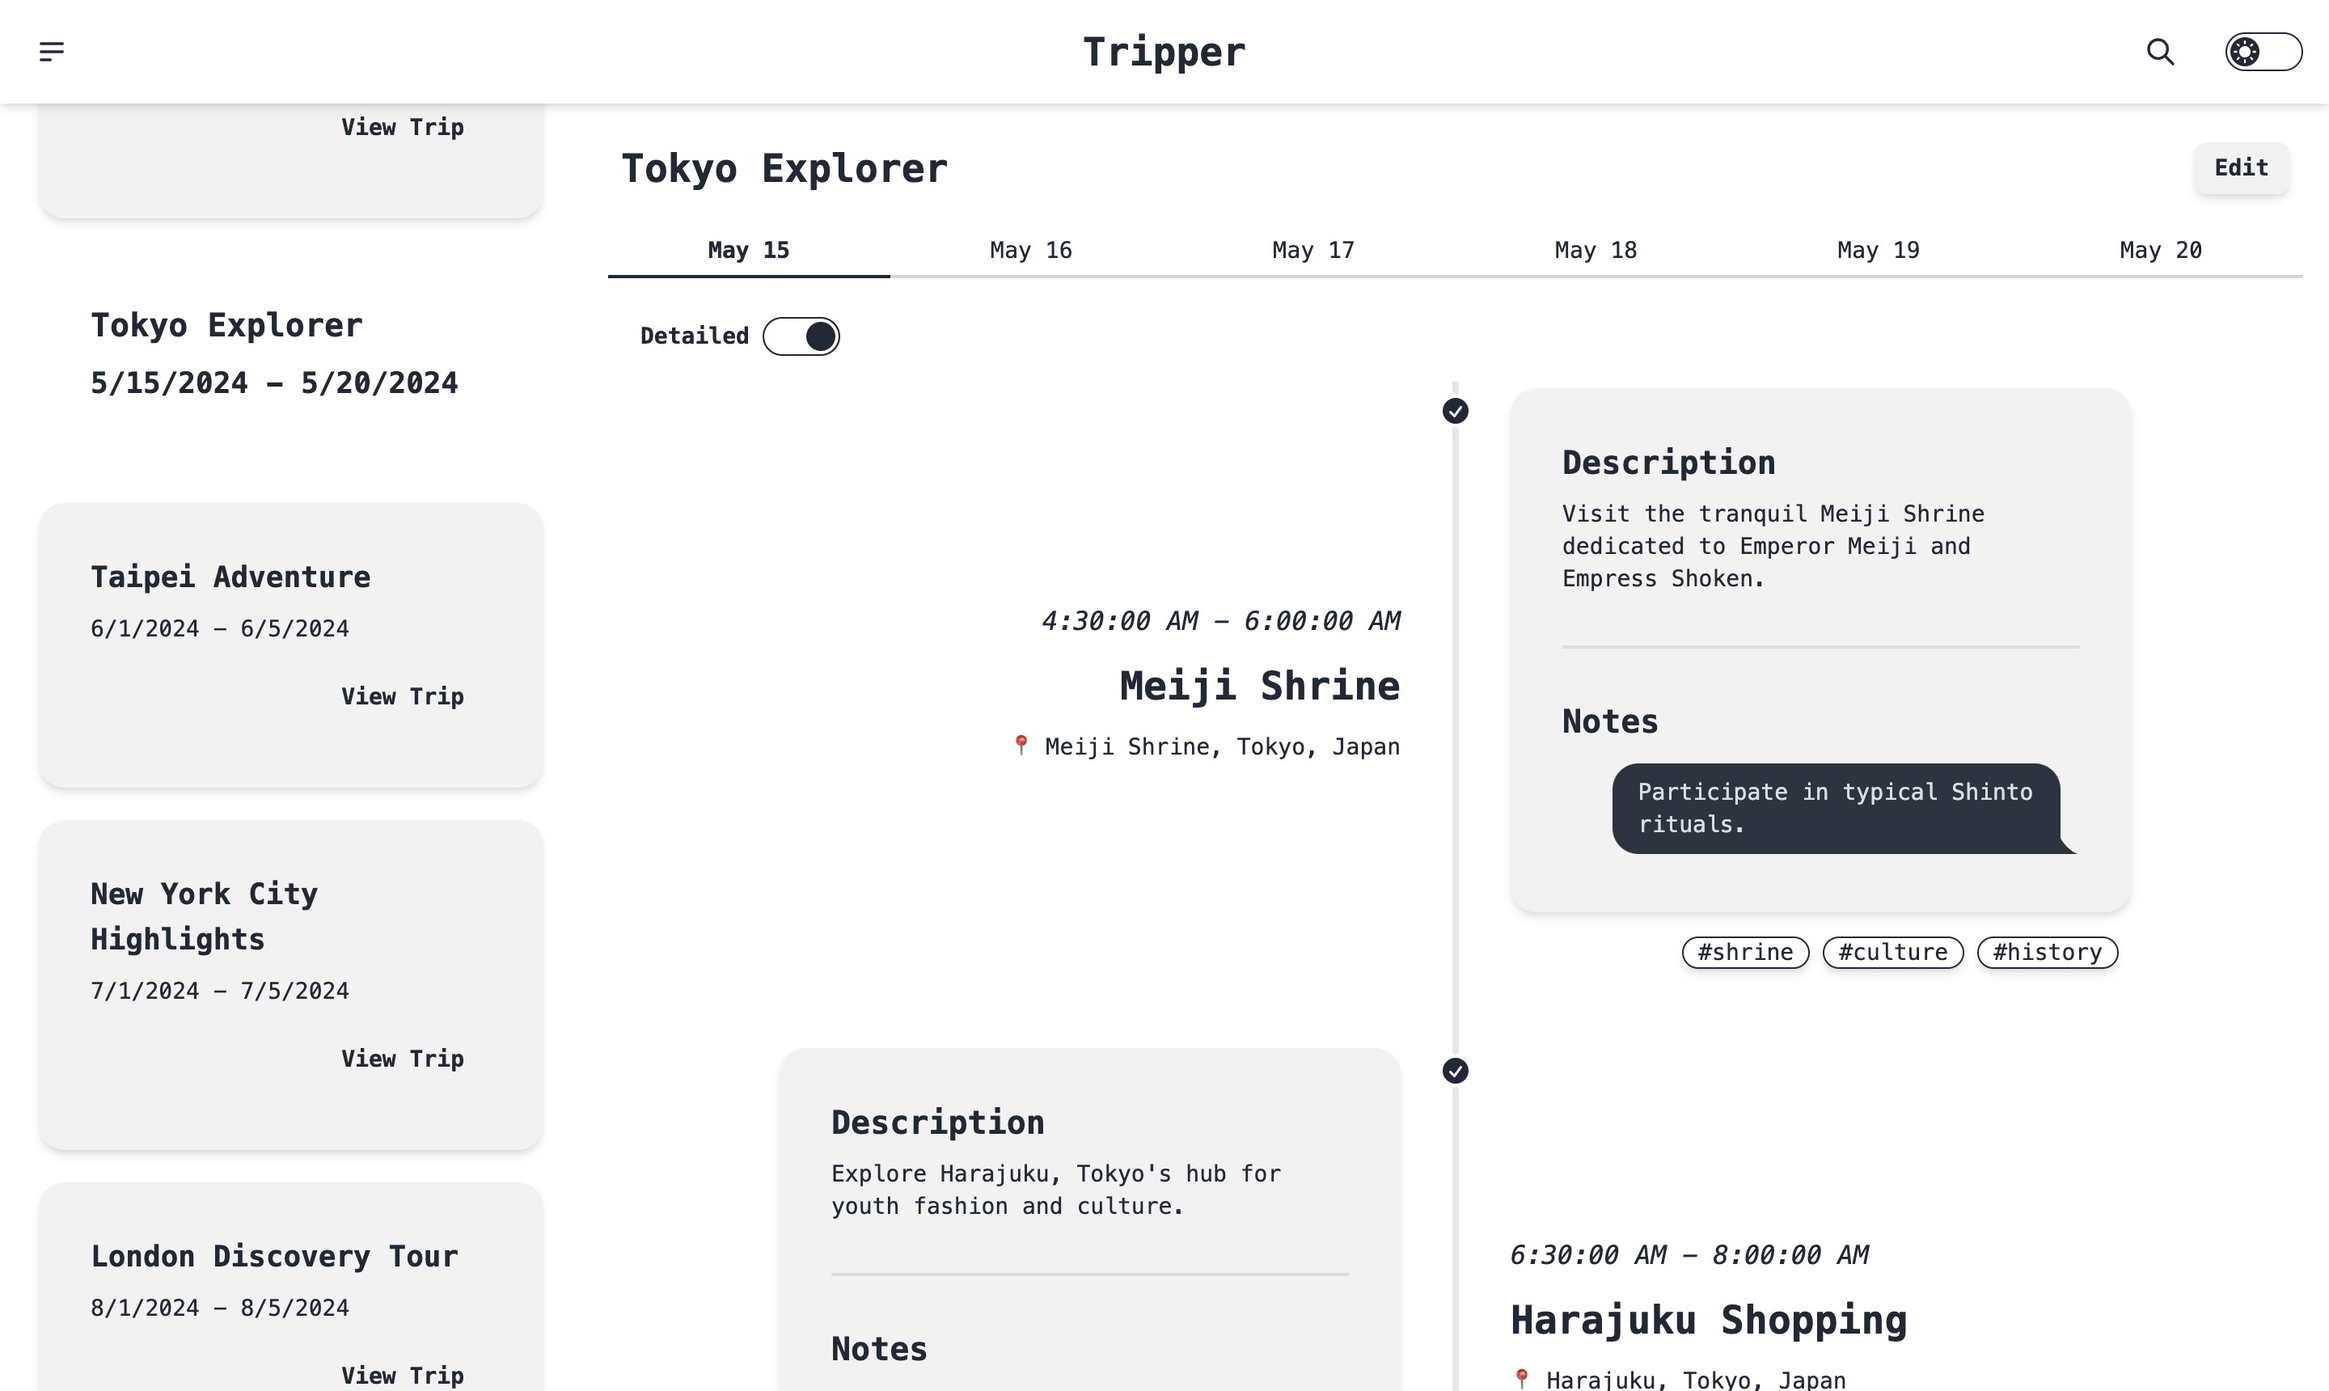
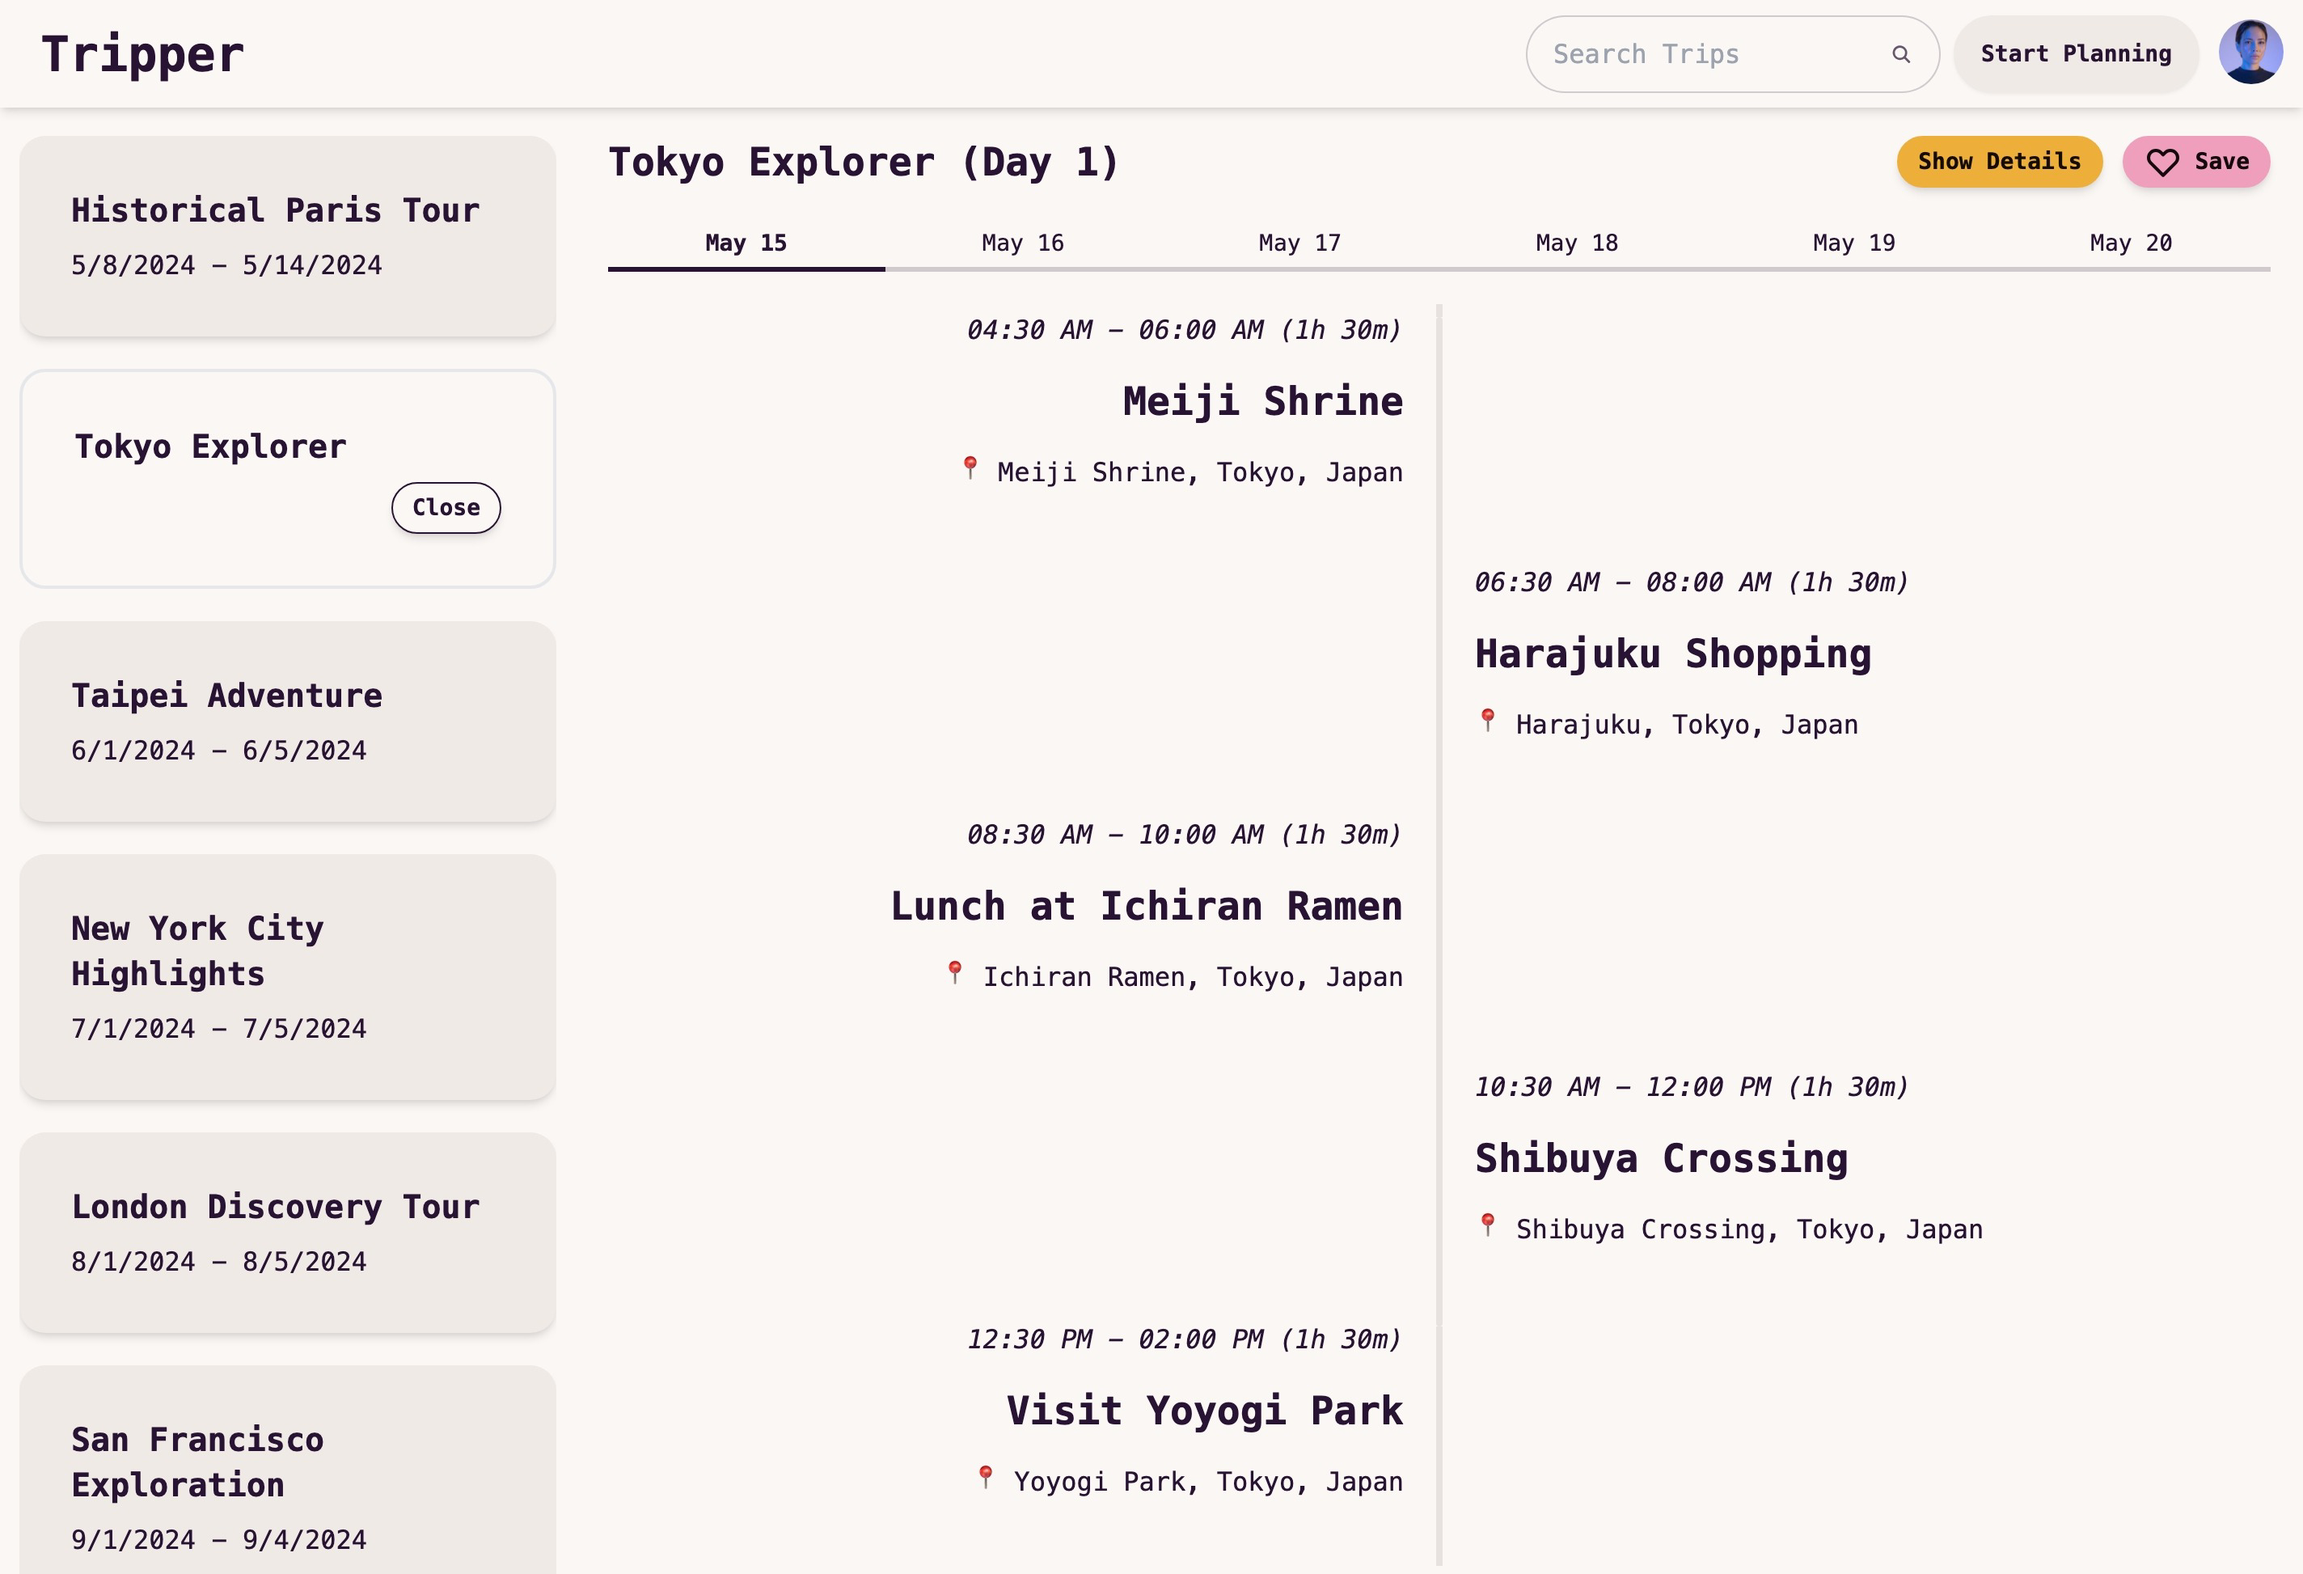
update trips ui

diff --git a/tripper-frontend/src/app/trips/layout.tsx b/tripper-frontend/src/app/trips/layout.tsx
@@ -32,50 +32,50 @@ export default function Layout({ children }: { children: React.ReactNode }) {
       : router.push(`/trips`);
   }, [selectedTrip, router]);
 
-  const filteredTrips = trips.filter((trip) => trip.id !== selectedTrip?.id);
+  // const filteredTrips = trips.filter((trip) => trip.id !== selectedTrip?.id);
 
   return (
-    <div className="flex h-full font-mono">
+    <div className="flex h-full pt-16 font-mono">
       {/* left */}
       <div
         className={`${
           selectedTrip ? "w-1/4" : "w-4/5 mx-auto"
         } flex flex-col px-3`}
       >
-        <div className="flex items-center py-5 space-x-2">
-          {selectedTrip && (
-            <button
-              type="button"
-              className="btn btn-circle shadow-md text-lg font-bold"
-              onClick={() => setSelectedTrip(null)}
-            >
-              {`<`}
-            </button>
-          )}
-
-          <Search placeholder="Search Trips" />
-        </div>
-
-        <div className="flex-grow overflow-y-auto hide-scrollbar pb-5">
+        <div className="flex-grow overflow-y-auto hide-scrollbar py-5">
           <div
             className={`grid ${
               selectedTrip ? "grid-cols-1" : "grid-cols-2 md:grid-cols-3"
             } gap-5`}
           >
-            {filteredTrips.map((trip: Trip) => {
+            {trips.map((trip: Trip) => {
               return (
                 <div
                   key={trip.id}
                   className={`card ${
-                    trip.id !== selectedTrip?.id &&
-                    "bg-base-200 shadow-md cursor-pointer hover:bg-base-300"
+                    trip.id !== selectedTrip?.id
+                      ? "bg-base-200 shadow-md cursor-pointer hover:bg-base-300"
+                      : "border-2"
                   }`}
                   onClick={() => setSelectedTrip(trip)}
                 >
                   <div className="card-body">
                     <h2 className="card-title text-md">{trip.title}</h2>
 
-                    {trip.id !== selectedTrip?.id && (
+                    {trip.id === selectedTrip?.id ? (
+                      <div className="card-actions justify-end">
+                        <button
+                          type="button"
+                          className="btn btn-outline btn-sm shadow-md"
+                          onClick={(e) => {
+                            e.stopPropagation(); // This stops the event from bubbling up to the parent elements.
+                            setSelectedTrip(null);
+                          }}
+                        >
+                          Close
+                        </button>
+                      </div>
+                    ) : (
                       <p>
                         {new Date(trip.startDate).toLocaleDateString()} -{" "}
                         {new Date(trip.endDate).toLocaleDateString()}

diff --git a/tripper-frontend/src/app/layout.tsx b/tripper-frontend/src/app/layout.tsx
@@ -20,6 +20,48 @@ export default function RootLayout({
     <html lang="en" data-theme="cupcake">
       <body className={inter.className}>
         {/* nav bar */}
+        <div className="navbar bg-base-100 fixed z-50 shadow-md font-mono">
+          <div className="flex-1">
+            <a className="btn btn-ghost text-3xl font-extrabold" href="/">
+              Tripper
+            </a>
+          </div>
+          <div className="flex-none gap-2">
+            <Search placeholder="Search Trips" />
+
+            <button type="button" className="btn">
+              Start Planning
+            </button>
+
+            <div className="dropdown dropdown-end">
+              <div
+                tabIndex={0}
+                role="button"
+                className="btn btn-ghost btn-circle avatar"
+              >
+                <div className="w-10 rounded-full">
+                  <img
+                    alt="Tailwind CSS Navbar component"
+                    src="https://img.daisyui.com/images/stock/photo-1534528741775-53994a69daeb.jpg"
+                  />
+                </div>
+              </div>
+              <ul
+                tabIndex={0}
+                className="mt-3 z-[1] p-2 shadow menu menu-sm dropdown-content bg-base-100 rounded-box w-52"
+              >
+                <li>
+                  <a className="justify-between" href="/profile">
+                    Profile
+                  </a>
+                </li>
+                <li>
+                  <a>Logout</a>
+                </li>
+              </ul>
+            </div>
+          </div>
+        </div>
 
         {/* page body */}
         <div className="h-screen overflow-hidden">{children}</div>

diff --git a/tripper-frontend/src/app/ui/trips/TripDetail.tsx b/tripper-frontend/src/app/ui/trips/TripDetail.tsx
@@ -5,7 +5,7 @@ import ScheduleDetail from "./ScheduleDetail";
 
 const TripDetail = ({ trip }: { trip: Trip }) => {
   const [selectedTab, setSelectedTab] = useState<number>(0);
-  const [showDetails, setShowDetails] = useState<boolean>(true);
+  const [showDetails, setShowDetails] = useState<boolean>(false);
 
   useEffect(() => {
     setSelectedTab(0);
@@ -46,8 +46,10 @@ const TripDetail = ({ trip }: { trip: Trip }) => {
   return (
     <div className="flex flex-col h-full">
       {/* title */}
-      <div className="flex justify-between items-center w-full py-4">
-        <h2 className="text-2xl font-bold">{trip.title}</h2>
+      <div className="flex justify-between items-center w-full py-5">
+        <h2 className="text-2xl font-bold">{`${trip.title} (Day ${
+          selectedTab + 1
+        })`}</h2>
 
         <div className="flex space-x-3">
           <button
@@ -80,17 +82,6 @@ const TripDetail = ({ trip }: { trip: Trip }) => {
 
       {/* Date Tabs */}
       <div role="tablist" className="tabs tabs-bordered">
-        {/* <a
-          key={datesArray.length}
-          role="tab"
-          className={`tab text-md ${
-            selectedTab === datesArray.length && "tab-active font-bold"
-          }`}
-          onClick={() => handleTabClick(datesArray.length)}
-        >
-          Overview
-        </a> */}
-
         {datesArray.map((date, index) => (
           <a
             key={index}

diff --git a/tripper-frontend/src/app/ui/trips/ScheduleDetail.tsx b/tripper-frontend/src/app/ui/trips/ScheduleDetail.tsx
@@ -25,21 +25,6 @@ export default function ScheduleDetail({
           <li key={stop.id}>
             <hr />
 
-            <div className="timeline-middle">
-              <svg
-                xmlns="http://www.w3.org/2000/svg"
-                viewBox="0 0 20 20"
-                fill="currentColor"
-                className="h-5 w-5"
-              >
-                <path
-                  fillRule="evenodd"
-                  d="M10 18a8 8 0 100-16 8 8 0 000 16zm3.857-9.809a.75.75 0 00-1.214-.882l-3.483 4.79-1.88-1.88a.75.75 0 10-1.06 1.061l2.5 2.5a.75.75 0 001.137-.089l4-5.5z"
-                  clipRule="evenodd"
-                />
-              </svg>
-            </div>
-
             <div
               className={`${
                 i % 2 === 0 ? "timeline-start md:text-end" : "timeline-end"

diff --git a/tripper-frontend/src/app/ui/trips/Search.tsx b/tripper-frontend/src/app/ui/trips/Search.tsx
@@ -52,7 +52,7 @@ export default function Search({ placeholder }: { placeholder: string }) {
     <form className="relative flex flex-1 w-full" onSubmit={handleSubmit}>
       {/* defaultValue vs. value / Controlled vs. Uncontrolled */}
 
-      <label className="input input-bordered flex items-center gap-2 w-full shadow-md">
+      <label className="input input-bordered flex items-center gap-2">
         <input
           type="text"
           className="grow block w-full rounded-md"

diff --git a/tripper-frontend/src/app/profile/layout.tsx b/tripper-frontend/src/app/profile/layout.tsx
@@ -2,7 +2,7 @@ import SideNav from "@/app/ui/SideNav";
 
 export default function Layout({ children }: { children: React.ReactNode }) {
   return (
-    <div className="flex h-screen flex-col md:flex-row md:overflow-hidden">
+    <div className="flex h-screen flex-col md:flex-row md:overflow-hidden pt-16">
       <div className="w-full flex-none md:w-64 border">
         <SideNav />
       </div>

diff --git a/tripper-frontend/src/app/page.tsx b/tripper-frontend/src/app/page.tsx
@@ -3,7 +3,7 @@ import Image from "next/image";
 
 export default function Page() {
   return (
-    <main className="flex min-h-screen flex-col p-6">
+    <main className="flex min-h-screen flex-col p-40">
       <Link href={"/trips"} className="text-3xl hover:underline">
         Trips
       </Link>

diff --git a/tripper-frontend/src/app/ui/NavLinks.tsx b/tripper-frontend/src/app/ui/NavLinks.tsx
@@ -9,11 +9,6 @@ import clsx from "clsx";
 // Depending on the size of the application, this would be stored in a database.
 const links = [
   {
-    name: "Home",
-    href: "/",
-    // icon: HomeIcon
-  },
-  {
     name: "Profile",
     href: "/profile",
     // icon: HomeIcon
